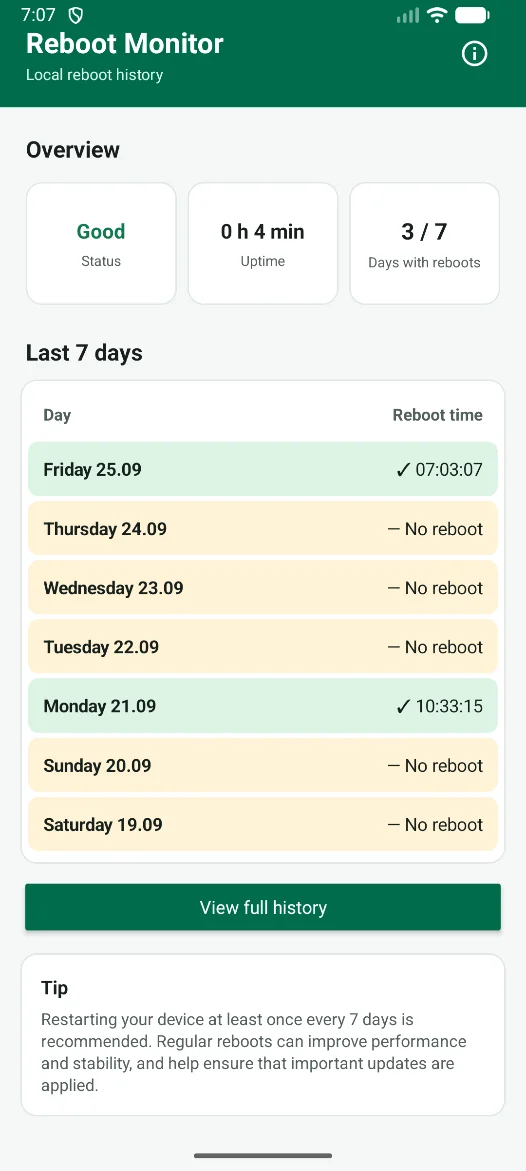
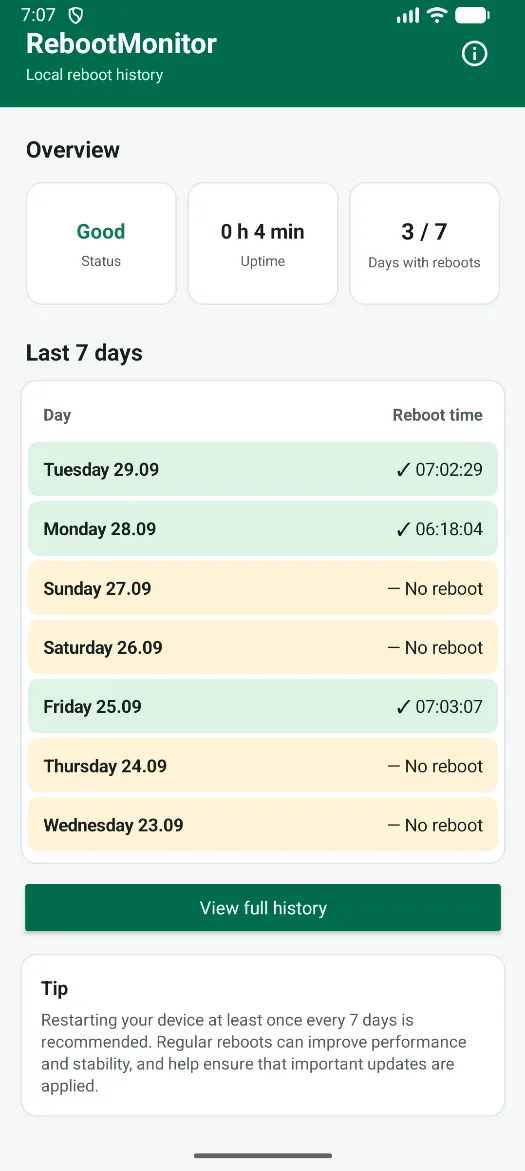
Add files via upload

diff --git a/index.html b/index.html
@@ -114,9 +114,9 @@
 <section class="card" aria-labelledby="screenshots">
 <h2 id="screenshots">Screenshots</h2>
 <div class="screens">
-<picture><source srcset="screenshot1.webp" type="image/webp"><img src="screenshot1.png" width="526" height="1171" alt="RebootMonitor dashboard showing status, current uptime, days with reboots and the reboot times of the last 7 days" loading="lazy" decoding="async"></picture>
-<picture><source srcset="screenshot2.webp" type="image/webp"><img src="screenshot2.png" width="526" height="1170" alt="RebootMonitor reboot history with summary, monthly calendar heatmap of reboots per day and monthly overview" loading="lazy" decoding="async"></picture>
-<picture><source srcset="screenshot3.webp" type="image/webp"><img src="screenshot3.png" width="524" height="1169" alt="RebootMonitor information dialog with app version, install date, reboot reminder toggle and link to the website" loading="lazy" decoding="async"></picture>
+<picture><source srcset="screenshot1.webp" type="image/webp"><img src="screenshot1.png" width="525" height="1171" alt="RebootMonitor dashboard showing status, current uptime, days with reboots and the reboot times of the last 7 days" loading="lazy" decoding="async"></picture>
+<picture><source srcset="screenshot2.webp" type="image/webp"><img src="screenshot2.png" width="526" height="1169" alt="RebootMonitor reboot history with summary, monthly calendar heatmap of reboots per day and monthly overview" loading="lazy" decoding="async"></picture>
+<picture><source srcset="screenshot3.webp" type="image/webp"><img src="screenshot3.png" width="526" height="1171" alt="RebootMonitor information dialog with app version, install and update dates, reboot reminder toggle, support link and website link" loading="lazy" decoding="async"></picture>
 </div>
 </section>
 
@@ -148,7 +148,7 @@
 
 <section class="card" aria-labelledby="mdm">
 <h2 id="mdm">Built for Shared Devices and MDM Environments</h2>
-<p>RebootMonitor is designed specifically for shared Android devices managed through Mobile Device Management (MDM) solutions such as Microsoft Intune. The app provides users with a simple way to see when a device was last restarted, helping ensure devices remain reliable, secure and compliant with organizational policies. <a href="https://rebootmonitor.com/intune-shared-devices.html">Read the Intune and Managed Home Screen guide →</a></p>
+<p>RebootMonitor is designed specifically for shared Android devices managed through Mobile Device Management (MDM) solutions such as Microsoft Intune. The app provides users with a simple way to see when a device was last restarted, helping ensure devices remain reliable, secure and compliant with organizational policies.</p>
 <p>Users can also receive a configurable reminder when a device has not been restarted in the last seven days. By encouraging regular reboots, RebootMonitor helps improve device performance, stability and overall user experience in enterprise environments.</p>
 <p>That said, RebootMonitor is just as valuable for personal use. Even outside enterprise environments, it gives everyday users a simple, at-a-glance way to check their device's restart history, making it easy to stay on top of performance and reliability at home too.</p>
 </section>
@@ -176,7 +176,7 @@
 
 <footer class="footer">
 <div>© 2026 Nordic Appworks • RebootMonitor</div>
-<nav aria-label="Footer"><a href="https://rebootmonitor.com/about.html">About</a><a href="https://rebootmonitor.com/intune-shared-devices.html">Intune guide</a><a href="https://rebootmonitor.com/privacy.html">Privacy Policy</a><a href="https://play.google.com/store/apps/details?id=app.rebootmonitor.mobile" target="_blank" rel="noopener">Google Play</a><a href="#contact">Contact</a></nav>
+<nav aria-label="Footer"><a href="https://rebootmonitor.com/about.html">About</a><a href="https://rebootmonitor.com/privacy.html">Privacy Policy</a><a href="https://play.google.com/store/apps/details?id=app.rebootmonitor.mobile" target="_blank" rel="noopener">Google Play</a><a href="#contact">Contact</a></nav>
 <div class="visitor-badge"><img src="https://visitor-badge.laobi.icu/badge?page_id=rebootmonitor.com.visitor-badge&left_color=%23005A26&right_color=%2334A853&radius=4" alt="visitor badge" loading="lazy" referrerpolicy="no-referrer"></div>
 </footer>
 
